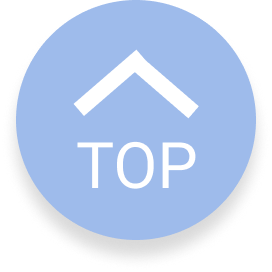
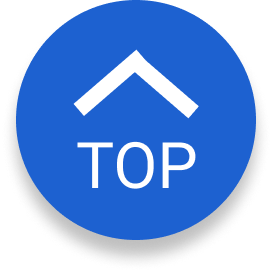
フローティングボタンの修正

diff --git a/ReadStage/templates/book/books.html b/ReadStage/templates/book/books.html
@@ -81,7 +81,8 @@
 </div>
 {% else %}
 {% for book in books %} <!-- Jinja2のループを開始 -->
-<!- 最初の一冊のみ「あなたにおすすめ！」と表示 -->
+<div>
+<!-- おすすめの一冊のみ「あなたにおすすめ！」と表示 -->
 <article class="book-item{% if book.id == recommend_book_id %} is-recommend{% endif %}"> <!-- 書籍１冊分のセット枠 -->
     <!-- 最初の一冊のみ、タグを表示 -->
     {% if book.id == recommend_book_id %}
@@ -110,9 +111,6 @@
         </div>
     </div>
 </div>
-<a href="#page-top" class="floating-btn">
-    <img src="{{ url_for('static', filename='image/floating_button.png') }}" alt="トップへ戻る">
-</a>
 <!-- 学習レベルの評価データを動的に表示 -->
 <div class="book-levels">
     <div class="plus-button"><!---ボタンを横並びにするため-->
@@ -147,6 +145,13 @@
 </div>
 </article>
 {% endfor %} 
+
+<!-- フローティングボタン -->
+<a href="#page-top" class="floating-btn">
+    <img src="{{ url_for('static', filename='image/floating_button.png') }}" alt="トップへ戻る">
+</a>
+</div>
+
 {% endif %}
 <!-- Jinja2のループ終了 -->
 

diff --git a/ReadStage/static/css/books.css b/ReadStage/static/css/books.css
@@ -397,7 +397,7 @@
     width: 100%; /* ボタンの幅に合わせる */
     height: 100%; /* ボタンの高さに合わせる */
     object-fit: contain; /* 画像の比率を保ちつつ収める*/
-    opacity: 0.2; /* 20%の透過度 */
+    opacity: 0.7; /* 70%の透過度 */
 }
 
 /* スムーズスクロール追加 */
